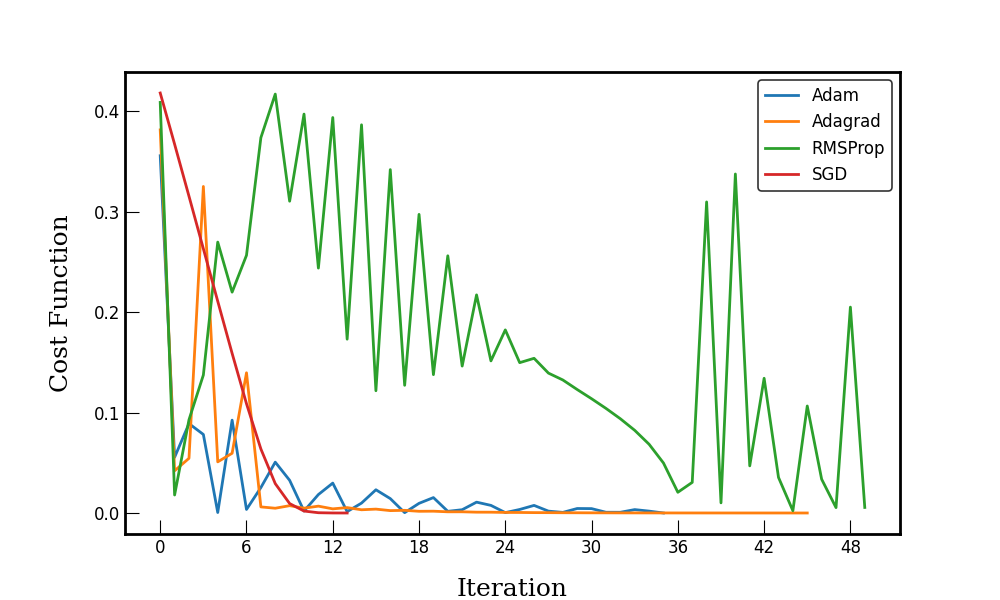
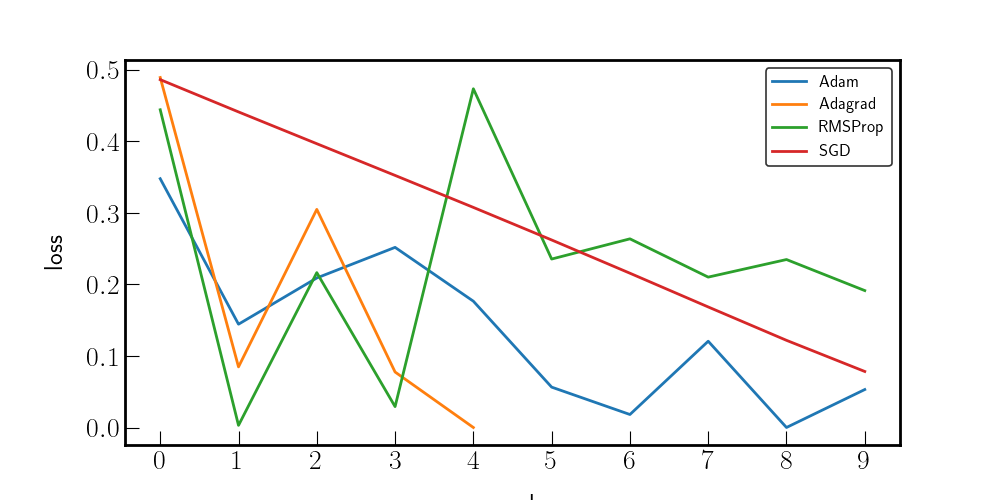
modified plots

diff --git a/src/utils/plotting.py b/src/utils/plotting.py
@@ -3,8 +3,11 @@ from src.utils.utils import save_fig
 from matplotlib.ticker import MaxNLocator
 
 
+plt.rcParams['text.usetex'] = True
+
+
 def plot_fast_slow(cost_history, epochs, epochs_bo, opt_name, iters):
-    fig, ax = plt.subplots(1, 1, figsize=(8, 5))
+    fig, ax = plt.subplots(1, 1, figsize=(10, 5))
     plt.plot(cost_history, "grey", linewidth=1.5)
     plt.scatter(range(epochs_bo, epochs_bo + iters), cost_history[epochs_bo:], c="r", linewidth=1,
                 label=opt_name)
@@ -15,11 +18,11 @@ def plot_fast_slow(cost_history, epochs, epochs_bo, opt_name, iters):
     min_index = cost_history[0:epochs_bo].index(min_value)
     plt.scatter(min_index, min_value, c="y", linewidth=1, label="Best Guess")
 
-    ax.set_xlabel("Iteration", fontsize=15)
-    ax.set_ylabel("Cost Function", fontsize=15)
+    ax.set_xlabel("epoch", fontsize=15)
+    ax.set_ylabel("loss", fontsize=15)
     ax.xaxis.set_major_locator(MaxNLocator(integer=True))
     ax.yaxis.set_major_locator(MaxNLocator(integer=True))
-    ax.tick_params(direction="in", labelsize=12, length=10, width=0.8, colors='k')
+    ax.tick_params(direction="in", labelsize=20, length=10, width=0.8, colors='k')
     ax.spines['top'].set_linewidth(2.0)
     ax.spines['bottom'].set_linewidth(2.0)
     ax.spines['left'].set_linewidth(2.0)
@@ -32,15 +35,15 @@ def plot_fast_slow(cost_history, epochs, epochs_bo, opt_name, iters):
 
 def plot_costs(data, save_png=False, title=None, log=False, fname=None):
     # plot curves
-    fig, ax = plt.subplots(1, 1, figsize=(10, 6))
+    fig, ax = plt.subplots(1, 1, figsize=(10, 5))
     for label, cost in data.items():
         ax.plot(cost, linewidth=2.0, label=label)
     if log:  # logarithmic
         ax.set_yscale('log', base=10)
-    ax.set_xlabel("Iteration", fontsize=18, labelpad=15, fontname='serif')
-    ax.set_ylabel("Cost Function", fontsize=18, labelpad=15, fontname='serif')
+    ax.set_xlabel("epoch", fontsize=18, labelpad=15, fontname='serif')
+    ax.set_ylabel("loss", fontsize=18, labelpad=15, fontname='serif')
     ax.xaxis.set_major_locator(MaxNLocator(integer=True))
-    ax.tick_params(direction="in", labelsize=12, length=10, width=0.8, colors='k')
+    ax.tick_params(direction="in", labelsize=20, length=10, width=0.8, colors='k')
     ax.spines['top'].set_linewidth(2.0)
     ax.spines['bottom'].set_linewidth(2.0)
     ax.spines['left'].set_linewidth(2.0)

diff --git a/examples/example_vqls.py b/examples/example_vqls.py
@@ -55,4 +55,4 @@ for optim in optims:
     print("xopt :", xopt)
 
 title = "VQLS   {:s}    qubits = {:d}    layers = {:d}".format(ansatz_.__class__.__name__, nqubits, nlayers)
-plot_costs(data=cost_hists, save_png=True, title=title, fname="vqls_optimizer_comparison")
+plot_costs(data=cost_hists, save_png=True, title=None, fname="vqls_optimizer_comparison_hea_nq1_nl1")

diff --git a/examples/example_deepvqls.py b/examples/example_deepvqls.py
@@ -14,7 +14,7 @@ np.random.seed(42)
 nqubits = 1
 nlayers = 1
 
-maxiter = 50
+maxiter = 10
 
 # init
 solver1 = DeepVQLS()
